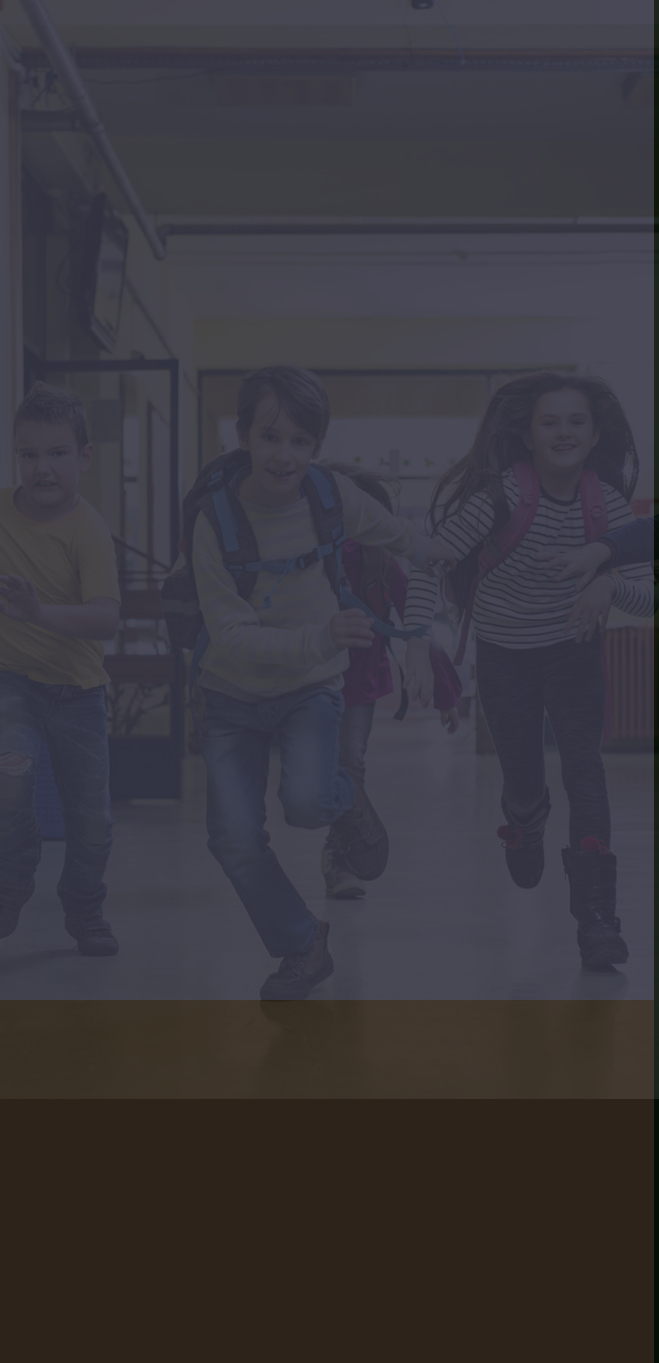
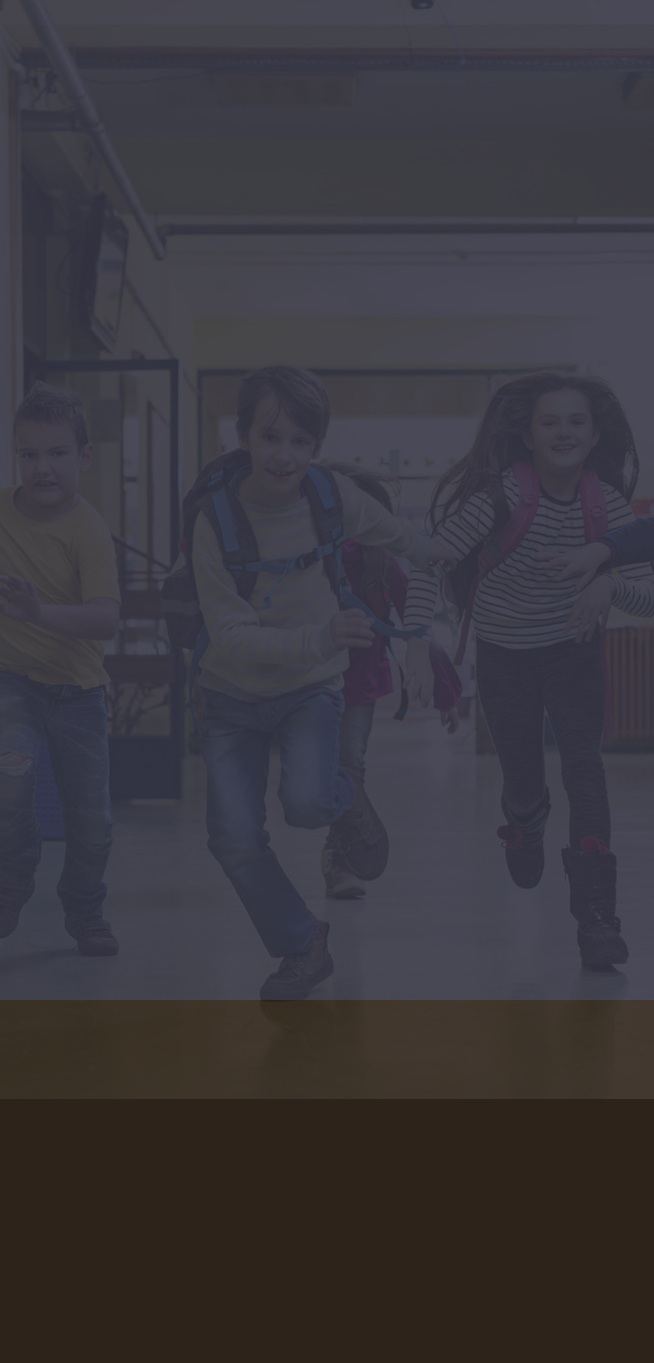
Правки шапки, страницы ЦА

Changed region(s): [[0.9786, 0.0, 1.0, 1.0]]

diff --git a/public/html/css/style.css b/public/html/css/style.css
@@ -3223,7 +3223,7 @@ table td { padding-top: 10px; padding-bottom: 10px; }
 
 .modal-backdrop.show { opacity: 0.97; background-color: #00173a; }
 
-.header-box { position: fixed; z-index: 99; top: 0; left: 0; width: 100%; padding: 12px 0; -webkit-transition: padding-top 100ms ease-in-out, padding-bottom 100ms ease-in-out; transition: padding-top 100ms ease-in-out, padding-bottom 100ms ease-in-out; }
+.header-box { position: absolute; z-index: 99; top: 0; left: 0; width: 100%; padding: 12px 0; -webkit-transition: padding-top 100ms ease-in-out, padding-bottom 100ms ease-in-out; transition: padding-top 100ms ease-in-out, padding-bottom 100ms ease-in-out; }
 @media (min-width: 750px) { .header-box { padding: 32px 0; } }
 @media (min-width: 970px) { .header-box { padding: 25px 0; } }
 @media (min-width: 1680px) { .header-box { padding: 40px 0; } }
@@ -3233,9 +3233,9 @@ table td { padding-top: 10px; padding-bottom: 10px; }
 @media (min-width: 480px) { .header-box .row:not(.no-gutters) > .col, .header-box .row:not(.no-gutters) > [class*="col-"] { padding-left: 15px; padding-right: 15px; } }
 @media (min-width: 750px) { .header-box .row:not(.no-gutters) > .col, .header-box .row:not(.no-gutters) > [class*="col-"] { padding-left: 10px; padding-right: 10px; } }
 @media (min-width: 1680px) { .header-box .row:not(.no-gutters) > .col, .header-box .row:not(.no-gutters) > [class*="col-"] { padding-left: 15px; padding-right: 15px; } }
-.header-box.is-sticky { color: currentColor !important; background-color: #fff; }
+.header-box.is-sticky { position: fixed; color: currentColor !important; background-color: #fff; }
 .header-box.is-sticky::before, .header-box.is-sticky::after { position: absolute; z-index: -1; top: 0; left: 0; right: 0; bottom: 0; content: ''; }
-.header-box.is-sticky::before { opacity: 0.5; background: conic-gradient(from 90deg, #944547, #5b4a90, #506c90, #944547); -webkit-filter: blur(10px); filter: blur(10px); }
+.header-box.is-sticky::before { opacity: 0.5; background: #506c90; -webkit-filter: blur(10px); filter: blur(10px); }
 @media (min-width: 1680px) { .header-box.is-sticky::before { opacity: 1; top: 0; } }
 .header-box.is-sticky::after { background-color: inherit; }
 @media (min-width: 750px) { .header-box.is-sticky { padding-top: 10px; padding-bottom: 10px; } }
@@ -3455,7 +3455,7 @@ table td { padding-top: 10px; padding-bottom: 10px; }
 @media (min-width: 750px) { .card-target { padding: 25px 20px; } }
 @media (min-width: 970px) { .card-target { padding: 25px; } }
 @media (min-width: 1200px) { .card-target { min-height: 370px; padding: 40px 40px 50px; } }
-@media (min-width: 1680px) { .card-target { min-height: 500px; } }
+@media (min-width: 1680px) { .card-target { min-height: 655px; } }
 .card-target .card-target-header { margin: 0 0 10px; }
 @media (min-width: 480px) { .card-target .card-target-header { margin-bottom: 20px; } }
 @media (min-width: 1200px) { .card-target .card-target-header { margin-bottom: 30px; } }
@@ -3473,7 +3473,7 @@ table td { padding-top: 10px; padding-bottom: 10px; }
 .card-target .card-target-includes { margin: 0; }
 .card-target .card-target-includes .card-target-include-item:not(:last-child) { margin-bottom: 15px; }
 @media (min-width: 970px) { .card-target .card-target-includes .card-target-include-item:not(:last-child) { margin-bottom: 25px; } }
-.card-target.card-target-sm { padding: 0 0 0 25px; }
+.card-target.card-target-sm { min-height: auto; padding: 0 0 0 25px; }
 .card-target.card-target-sm .card-target-header { margin-bottom: 15px; }
 .card-target.card-target-sm .card-target-count { position: absolute; top: 0; right: calc(100% - 15px); font-size: 18px; font-weight: 400; line-height: 25px; letter-spacing: normal; }
 @media (min-width: 750px) { .card-target.card-target-sm .card-target-count { font-size: 20px; line-height: 25px; } }
@@ -3781,7 +3781,7 @@ table td { padding-top: 10px; padding-bottom: 10px; }
 .swiper-includes .swiper-wrapper .swiper-slide.swiper-slide-active { opacity: 1; visibility: visible; }
 .swiper-includes .swiper-wrapper .swiper-slide.swiper-slide-active + .swiper-slide-next { opacity: 0.5; visibility: visible; }
 
-.section-target { position: relative; z-index: 1; padding: 90px 0 50px; color: #fff; }
+.section-target { position: relative; z-index: 1; padding: 90px 0 50px; background-repeat: no-repeat; background-position: center; background-size: cover; color: #fff; }
 @media (min-width: 750px) { .section-target { padding: 110px 0 100px; } }
 @media (min-width: 970px) { .section-target { padding: 125px 0 85px; } }
 @media (min-width: 1200px) { .section-target { padding: 155px 0 120px; } }

diff --git a/public/html/scss/layout/header/_header.scss b/public/html/scss/layout/header/_header.scss
@@ -1,5 +1,5 @@
 .header-box {
-    position: fixed;
+    position: absolute;
     z-index: 99;
     top: 0;
     left: 0;
@@ -50,6 +50,7 @@
     }
 
     &.is-sticky {
+        position: fixed;
         color: currentColor !important;
         background-color: $c-white;
         &::before,
@@ -65,13 +66,7 @@
 
         &::before {
             opacity: 0.5;
-            background: conic-gradient(
-                from 90deg,
-                #944547,
-                #5b4a90,
-                #506c90,
-                #944547
-            );
+            background: #506c90;
             filter: blur(10px);
             @include media-breakpoint-up(xxl) {
                 opacity: 1;

diff --git a/public/html/target.html b/public/html/target.html
@@ -91,7 +91,7 @@
     </header>
 
     <main class="main d-flex flex-column flex-shrink-0 flex-grow-1">
-        <section class="section-target section-dark flex-grow-1">
+        <section class="section-target section-dark flex-grow-1" style="background-image: url('images/sections/section-expertises/section-expertises-bg.jpg')" >
             <div class="container">
                 <div class="row">
                     <div class="col-xxl-10 offset-xxl-1">

diff --git a/public/html/scss/components/cards/_card-target.scss b/public/html/scss/components/cards/_card-target.scss
@@ -20,7 +20,7 @@
         padding: 40px 40px 50px;
     }
     @include media-breakpoint-up(xxl) {
-        min-height: 500px;
+        min-height: 655px;
     }
 
     .card-target-header {
@@ -101,8 +101,9 @@
         }
     }
 
-
+    // target card sm
     &.card-target-sm {
+        min-height: auto;
         padding: 0 0 0 25px;
 
         .card-target-header {

diff --git a/public/html/scss/sections/_section-target.scss b/public/html/scss/sections/_section-target.scss
@@ -2,6 +2,9 @@
     position: relative;
     z-index: 1;
     padding: 90px 0 50px;
+    background-repeat: no-repeat;
+    background-position: center;
+    background-size: cover;
     color: $c-white;
     @include media-breakpoint-up(md) {
         padding: 110px 0 100px;
